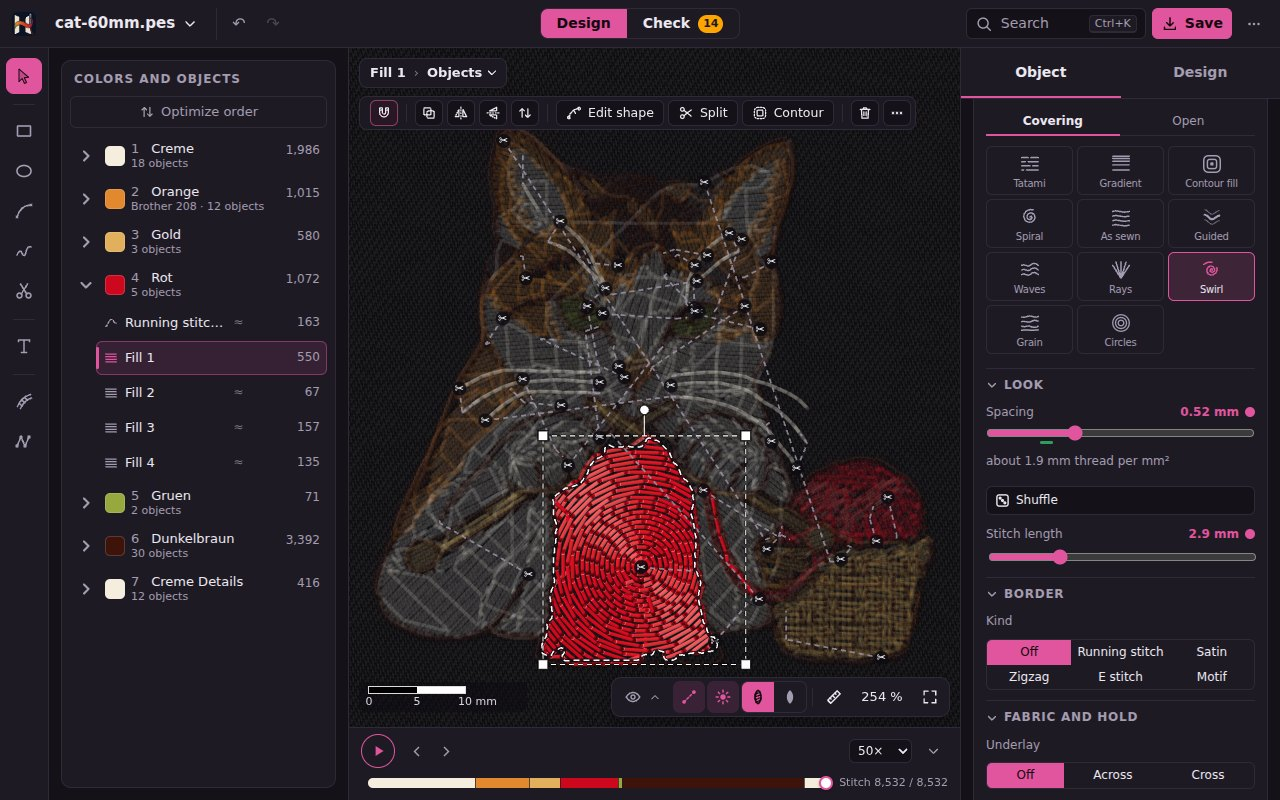
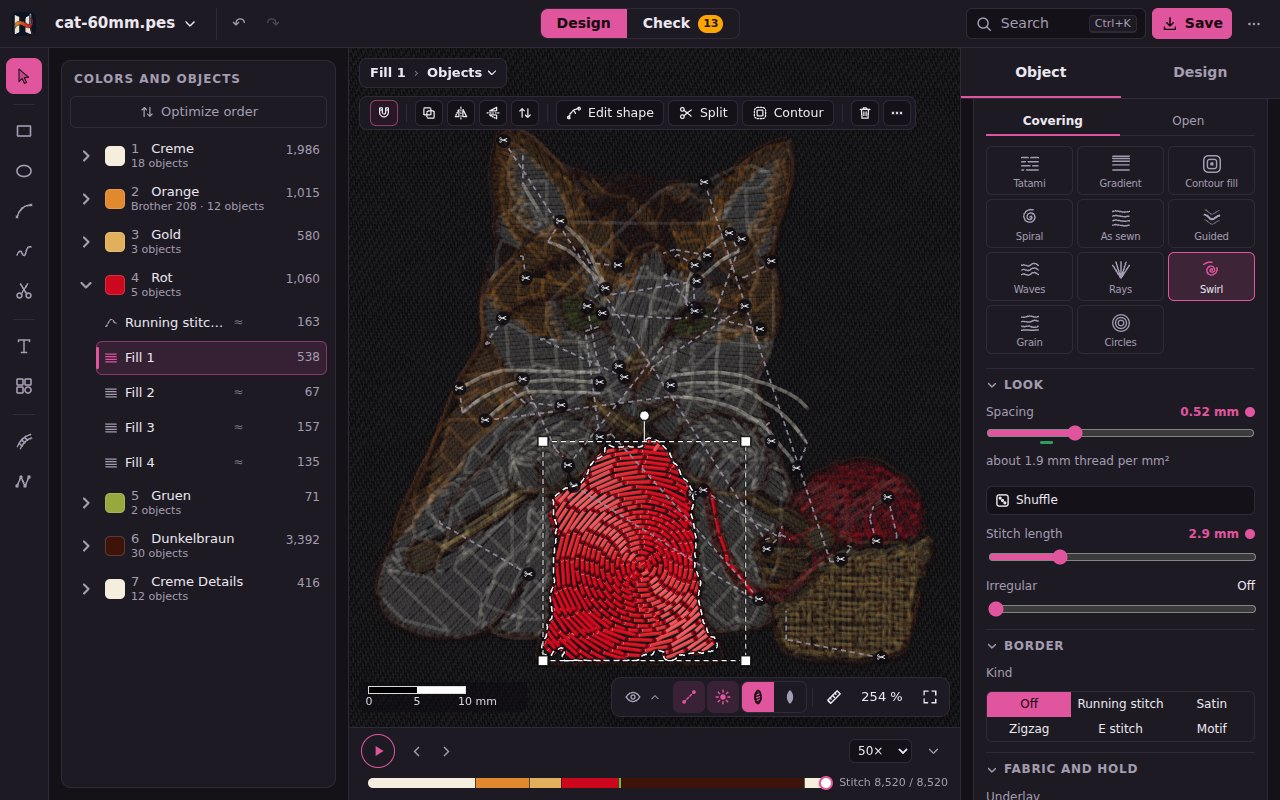
Guide: motif library picture, Schnitte sparen, appliqué click
The Motive section gets a picture of the library beside the cat, in
German and English, taken by a new shot in the screenshot script. The
fill options describe Schnitte sparen: where no hidden way to the next
rows is left, the needle runs a few millimetres along the edge instead
of trimming. The appliqué section says a click on the piece of fabric
selects it. The pattern, object card and stitch pictures are retaken
after the textures, the Unregelmäßig slider and the hollow node dots.

Claude-Session: https://claude.ai/code/session_01379gitMZ3UzT9w36uwz6PC

diff --git a/docs.html b/docs.html
@@ -282,6 +282,8 @@
           <dd>Die ganze Fläche rundum bis 3 mm größer oder kleiner, bevor sie gefüllt wird: schließt Lücken zu Linien und Nachbarn oder hält Abstand zu ihnen. Die Form selbst bleibt.</dd>
           <dt>Unterlage</dt>
           <dd><i>Aus</i> für kleine Flächen und dünne Stoffe, <i>Quer</i> (eine lockere Lage quer zu den Reihen, zuerst gestickt) oder <i>Kreuz</i> (zwei Lagen über Kreuz, für dehnbare und flauschige Stoffe). Dazu ihr <i>Einzug</i> vom Rand, fest in mm oder anteilig nach der Breite der Fläche, ihr Reihenabstand und <i>Unter späteren Objekten weglassen</i>: Wo spätere Objekte die Füllung ganz bedecken, entfällt die Unterlage, das spart Garn und Dicke unter Satinrändern. <i>Auto</i> wählt die Unterlage nach Stoff und Größe.</dd>
+          <dt>Schnitte sparen</dt>
+          <dd>Wo am Ende eines Abschnitts kein versteckter Weg zu den nächsten Reihen bleibt, schneidet die Maschine den Faden und springt. Wer lieber weniger Schnitte hat, setzt das Häkchen: Dann läuft die Nadel ein paar Millimeter am Rand entlang statt zu schneiden. Nicht bei Konturfüllung und Spirale.</dd>
           <dt>Umrandung</dt>
           <dd>Eine Linie um die Füllung mit denselben Stichen wie eine <a href="#de-lines">Linie</a>: <i>Steppstich</i> (auch als Bohnenstich), <i>Satin</i> mit Breite, Zugausgleich und Unterlage, <i>Zickzack</i>, <i>E-Stich</i> oder <i>Motiv</i>. <i>Lage zur Kante</i> legt sie auf die Kante der Füllung oder nach innen oder außen versetzt. Die Umrandung ist ein eigenes Objekt in der Liste, durch einen Fadenschnitt von der Füllung getrennt und gleich nach ihr gestickt, im Garn der Füllung oder mit <i>Garn der Umrandung</i> in einem eigenen. Mit <i>Früher</i>, <i>Später</i> oder Ziehen in der Liste legst du fest, wann sie gestickt wird; sie bleibt mit der Füllung verknüpft, folgt ihrer Form und wird mit ihr dupliziert, bis du sie mit <i>Verknüpfung lösen</i> abtrennst. Ihre Karte nennt im Kopf die Füllung, zu der sie gehört; auf der Ebene <i>Form</i> ziehst du die Breite einer Satin-Umrandung am Griff ihres Bandes. Die Umrandung ist die Linie der Füllung: Hat die Form neben der gefüllten Fläche offene Pfade, etwa die Adern in einem Blatt, läuft die Umrandung auch sie entlang; gefüllt wird nur, was geschlossen ist. Wie eine Linie bekommt sie unter <i>Effekte</i> <i>Echo</i>-Kopien und einen <i>Schatten</i>, die ihrer versetzten Kurve folgen, und als Satin <i>Fransen</i>, mit <i>Fransen an</i> <i>Innen</i>, <i>Außen</i> oder auf beiden Seiten, etwa für Fell um eine Fläche. Aus einer SVG-Form mit Fläche und Strich wird eine Füllung mit Umrandung im Garn des Strichs. In einer geöffneten Stickdatei wird eine Linie, die am Rand einer Füllung entlang gestickt ist, als deren Umrandung erkannt und in der Karte der Füllung angeboten.</dd>
           <dt>Leitlinien</dt>
@@ -359,7 +361,7 @@
         <h3 id="de-applique">Applikation</h3>
 
         <!-- video:ref de 14-applikation -->
-        <p>Bei einer Applikation wird ein Stück Stoff aufgenäht statt eine Fläche zu füllen. Wähle eine geschlossene Fläche und unter <i>Stichart</i> <i>Applikation</i>. Sie bleibt ein Objekt aus drei Teilen im selben Garn, mit zwei Stopps dazwischen:</p>
+        <p>Bei einer Applikation wird ein Stück Stoff aufgenäht statt eine Fläche zu füllen. Wähle eine geschlossene Fläche und unter <i>Stichart</i> <i>Applikation</i>. Sie bleibt ein Objekt aus drei Teilen im selben Garn, mit zwei Stopps dazwischen (ein Klick auf das Stoffstück wählt sie aus):</p>
         <ol>
           <li><b>Platzierungslinie</b> genau auf dem Umriss, dann stoppt die Maschine: <i>Stoff auflegen</i>.</li>
           <li><b>Heftlinie</b> knapp innerhalb des Umrisses (0,5 bis 1 mm, mit der Kante breiter), sie hält den Stoff. Dann stoppt die Maschine: <i>Stoff zuschneiden</i>. Den Rahmen abnehmen, aber nicht ausspannen, und den Stoff knapp an der Heftlinie abschneiden.</li>
@@ -614,6 +616,9 @@
           <li>Ohne offenes Stickmuster, etwa mit einem Klick im Willkommensfenster, beginnt das Motiv ein neues, leeres Stickmuster und steht in seiner Mitte.</li>
           <li>Während das Motiv gestickt wird, füllt sich ein Ring auf der Kachel und an seinem Platz auf der Bühne; darunter steht, die wievielte Form gerade dran ist.</li>
         </ul>
+        <figure>
+          <img src="/guide/motifs-de.jpg" width="1280" height="800" loading="lazy" alt="Die Bibliothek Motive statt der Objektliste: Suchfeld, Kategorien und Kacheln mit fertigen Motiven, rechts die Beispielkatze" />
+        </figure>
         <p>
           Der Regler <i>Breite</i> unter der Suche legt fest, wie breit das nächste Motiv gestickt wird, bis zur kleineren Seite des Stickrahmens; die Probe auf der Bühne zeigt die Größe schon beim Ziehen. Ohne eigene Wahl sind es 60 mm, in einem kleinen Stickrahmen weniger. Das <i>X</i> oben rechts schließt die Motive und zeigt wieder die Objektliste. Jede Fläche wird ein Objekt mit Form und Stichart, wie
           bei einer geöffneten SVG-Datei, und was unter späteren Flächen liegt, wird ausgespart. Das eingesetzte Motiv ist schon ausgewählt:
@@ -1272,6 +1277,8 @@
           <dd>The whole area up to 3 mm larger or smaller all round before it is filled: closes gaps to lines and neighbors or keeps a distance from them. The shape itself stays.</dd>
           <dt>Underlay</dt>
           <dd><i>Off</i> for small areas and thin fabrics, <i>Across</i> (one loose layer across the rows, sewn first) or <i>Cross</i> (two layers crosswise, for stretchy and fluffy fabrics). Plus its <i>inset</i> from the edge, fixed in mm or as a share of the area's width, its row spacing and <i>Leave out under later objects</i>: where later objects cover the fill completely, the underlay is dropped, which saves thread and bulk under satin borders. <i>Auto</i> picks the underlay by fabric and size.</dd>
+          <dt>Save trims</dt>
+          <dd>Where no hidden way to the next rows is left at the end of a section, the machine trims the thread and jumps. If you would rather have fewer trims, tick the box: the needle then runs a few millimetres along the edge instead of trimming. Not for contour fill and spiral.</dd>
           <dt>Border</dt>
           <dd>A line around the fill with the same stitches as a <a href="#en-lines">line</a>: <i>Running stitch</i> (also as bean stitch), <i>Satin</i> with width, pull compensation and underlay, <i>Zigzag</i>, <i>E stitch</i> or <i>Motif</i>. <i>Position</i> puts it on the edge of the fill or offset inwards or outwards. The border is an object of its own in the list, trimmed off the fill and sewn right after it, in the fill's thread or, with <i>Border thread</i>, in one of its own. <i>Earlier</i>, <i>Later</i> or dragging it in the list sets when it is sewn; it stays linked to the fill, follows its shape and is duplicated with it until you take it off with <i>Detach</i>. Its card names the fill it belongs to in its head; on the level <i>Shape</i> you drag the width of a satin border at the grip of its band. The border is the line of the fill: when the shape has open paths beside the filled area, such as the veins in a leaf, the border runs along them too; only what is closed is filled. Like a line it gets <i>Echo</i> copies and a <i>Shadow</i> under <i>Effects</i>, which follow its offset curve, and as satin a <i>Fringe</i>, with <i>Fringe on</i> <i>Inside</i>, <i>Outside</i> or both sides, such as fur around an area. An SVG shape with fill and stroke becomes a fill with a border in the stroke's thread. In an opened embroidery file, a line sewn along the edge of a fill is recognized as its border and offered in the fill's card.</dd>
           <dt>Guide lines</dt>
@@ -1349,7 +1356,7 @@
         <h3 id="en-applique">Appliqué</h3>
 
         <!-- video:ref en 14-applikation -->
-        <p>An appliqué sews a piece of fabric on instead of filling an area. Select a closed area and choose <i>Appliqué</i> under <i>Stitch type</i>. It stays one object of three parts in one thread, with two stops between them:</p>
+        <p>An appliqué sews a piece of fabric on instead of filling an area. Select a closed area and choose <i>Appliqué</i> under <i>Stitch type</i>. It stays one object of three parts in one thread, with two stops between them (a click on the piece of fabric selects it):</p>
         <ol>
           <li><b>Placement line</b> right on the outline, then the machine stops: <i>lay the fabric on</i>.</li>
           <li><b>Tack-down</b> just inside the outline (0.5 to 1 mm, more with a wider edge), which holds the fabric. Then the machine stops: <i>trim the fabric</i>. Take the hoop off without unhooping and cut the fabric close to the tack-down.</li>
@@ -1601,6 +1608,9 @@
           <li>With no design open, for instance with a click on the welcome sheet, the motif starts a new, empty design and sits in its middle.</li>
           <li>While the motif is sewn, a ring fills on its tile and in its place on the stage, and the note below says which shape is being sewn.</li>
         </ul>
+        <figure>
+          <img src="/guide/motifs-en.jpg" width="1280" height="800" loading="lazy" alt="The Motifs library in place of the object list: search box, categories and tiles with ready-made motifs, the example cat on the right" />
+        </figure>
         <p>
           The <i>Width</i> slider under the search sets how wide the next motif is sewn, up to the smaller side of the hoop; the preview on the stage shows the size while you drag. Unless you choose, it is 60 mm, less in a small hoop. The <i>X</i> at the top right closes the motifs and shows the object list again. Each area becomes an object with its shape and stitch type, as in an opened
           SVG file, and what lies under later areas is left out. The motif comes in selected: the frame moves and scales it, and
